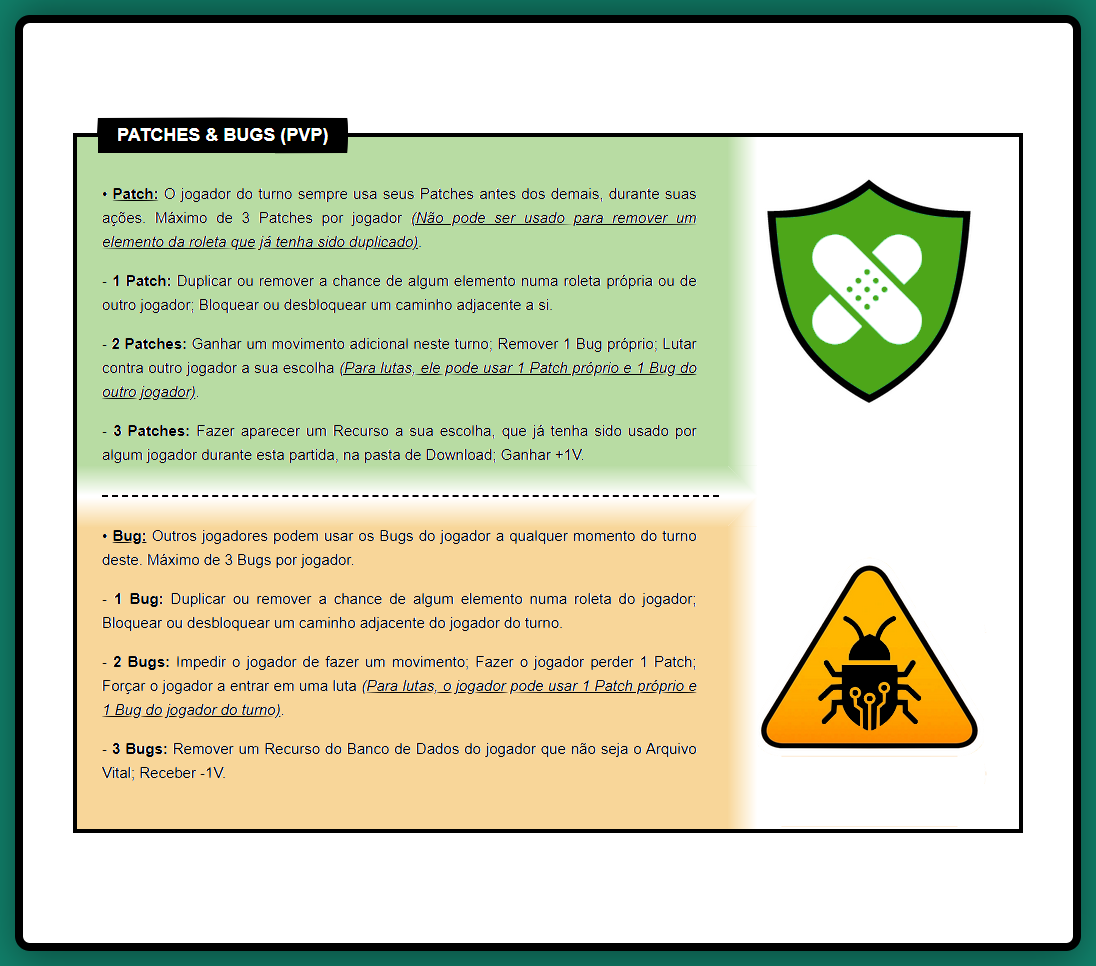
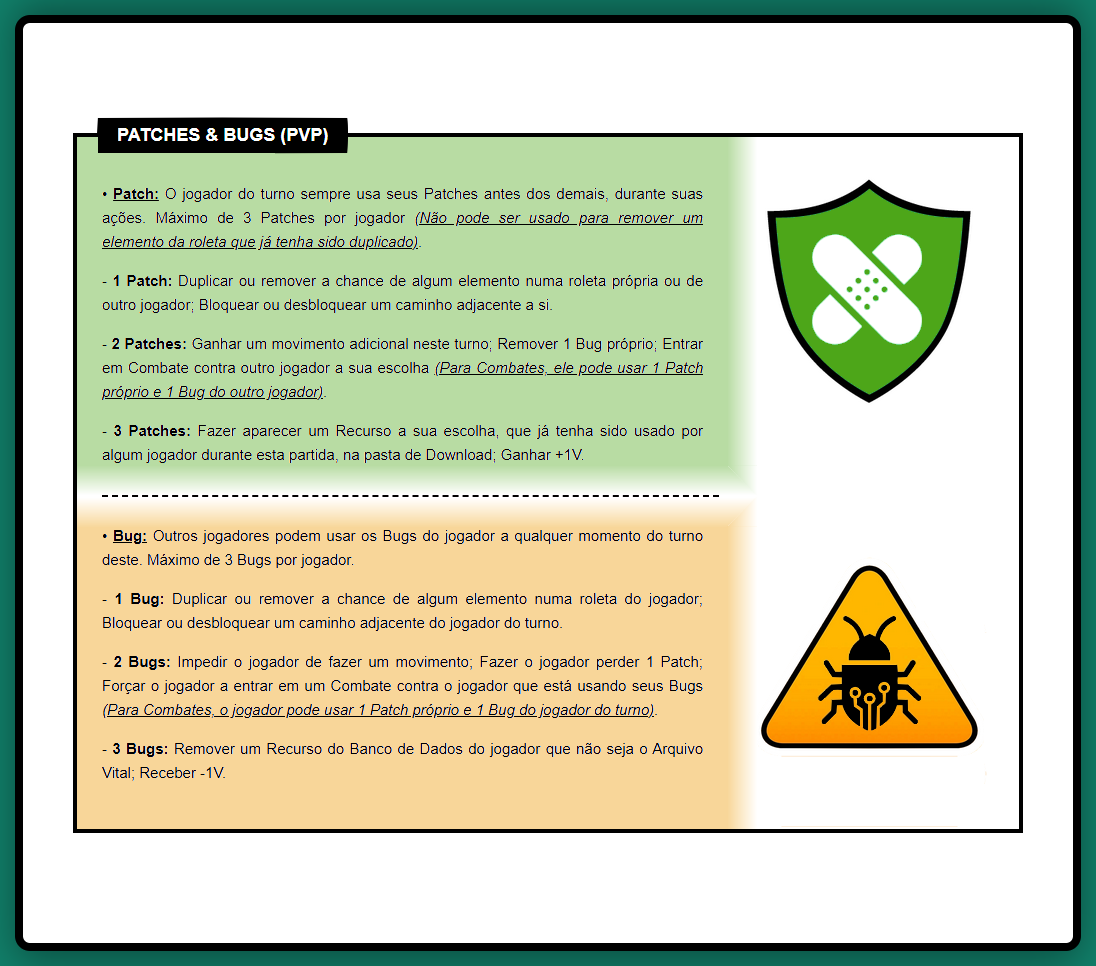
Add files via upload

diff --git a/Regras - Datamining.html b/Regras - Datamining.html
@@ -197,23 +197,23 @@
                 <div class="regra-com-imagem">
                     <div class="texto-regra">
                         <p>• <b>Objetivo:</b> Proteger o <strong>Arquivo Vital</strong>, que está na pasta de Diretório Principal, e levá-lo até sua Zona Segura. Vence o jogador que iniciar seu turno na própria pasta de Zona Segura com o Arquivo Vital no seu <strong>Banco de Dados</strong>.</p>
-						<p>• <b>Jogadores:</b> Um jogador é o <strong>Sistema Operacional (SO)</strong> sendo corrompido e os outros são <strong>Antivírus</strong> concorrentes entre si. <i><u>(Mínimo de 3 e máximo de 8 jogadores além do SO)</u></i></p>
+						<p>• <b>Jogadores:</b> Um jogador é o <strong>Sistema Operacional (SO)</strong> sendo corrompido e os outros são <strong>Antivírus</strong> concorrentes entre si. <i><u>(Mínimo de 3 e máximo de 8 jogadores Antivírus).</u></i></p>
                         <p>• <b>SO:</b> Apenas o SO vê a <strong>Tabela Mestra de Diretórios (TMD)</strong>. Ele informa as direções possíveis e a distância após a escolha do jogador sobre qual caminho seguir.</p>
-						<p>• <b>Antivírus:</b> Os jogadores Antivírus têm como ações: realizar um movimento, usar um <strong>Recurso</strong>, usar seus <strong>Patches</strong>, realizar um <strong>Combate</strong> ou rodar uma <strong>Roleta</strong>. <i><u>(Não pode repetir uma ação no mesmo turno normalmente)</u></i></p>
+						<p>• <b>Antivírus:</b> Os jogadores Antivírus têm como ações: realizar um <strong>Movimento</strong>, usar um <strong>Recurso</strong>, usar seus <strong>Patches</strong>, realizar um <strong>Combate</strong> ou rodar uma <strong>Roleta</strong>. <i><u>(Não pode repetir uma ação no mesmo turno normalmente).</u></i></p>
                     </div>
                     <img src="Regras PvP (1).png" class="imagem-regra" onclick="expandirImagem(this.src)">
                 </div>
 
                 <div class="regra-com-imagem">
                     <div class="texto-regra">
-                        <p>• <b>Setup:</b> Cada jogador escolhe sua cor e inicia o jogo com seus status <strong>1V-0A-5B</strong>. <i><u>(Versão, Atualização e Bits)</u></i></p>
+                        <p>• <b>Setup:</b> Cada jogador escolhe sua cor e inicia o jogo com seus status <strong>1V-0A-5B</strong>. <i><u>(Versão, Atualização e Bits).</u></i></p>
                     </div>
                     <img src="Regras PvP (2).png" class="imagem-regra" onclick="expandirImagem(this.src)">
                 </div>
 				
 				<div class="regra-com-imagem">
                     <div class="texto-regra">
-                        <p>• <b>Esgotamento:</b> Caso um jogador fique com ambos V e A abaixo de zero, coloque-o de volta na sua pasta de Zona Segura <i><u>(Se não tiver, vai para uma pasta de Download aleatória pelo mapa)</u></i>. Ele dá seus Recursos para os outros jogadores <i><u>(O Arquivo Vital volta para a pasta de Diretório Principal)</u></i> e recomeça com seus status iniciais.</p>
+                        <p>• <b>Esgotamento:</b> Caso um jogador fique com ambos V e A abaixo de zero, coloque-o de volta na sua pasta de Zona Segura <i><u>(Se não tiver, vai para uma pasta de Download aleatória pelo mapa)</u></i>. Ele dá seus Recursos para os outros jogadores <i><u>(O Arquivo Vital volta para a pasta do Diretório Principal)</u></i> e recomeça com seus status iniciais.</p>
 						<p>• <b>Início:</b> A ordem dos jogadores é escolhida pela roleta de Antivírus.</p>
 						<p>• <b>Exploração:</b> Com exceção das pastas de Zona Segura, do Diretório Principal, de Quarentena e de Downloads, encontrar uma pasta nunca explorada concede ao jogador uma <strong>Criptomoeda</strong>, que dá +1A ou +1B pro jogador a sua escolha.</p>
                     </div>
@@ -222,7 +222,7 @@
 				
 				<div class="regra-com-imagem">
                     <div class="texto-regra">
-                        <p>• <b>Datamine:</b> Com exceção das pastas de Zona Segura, do Diretório Principal, de Quarentena e de Downloads, existe uma Datamine escondida no mapa que, ao ser encontrada, revela para o jogador a parte do mapa em que ele está. Depois disso, ela é colocada escondida em outro lugar do mapa.</p>
+                        <p>• <b>Datamine:</b> Com exceção das pastas de Zona Segura, do Diretório Principal, de Quarentena e de Downloads, existe uma Datamine escondida no mapa que, ao ser encontrada, revela para o jogador um Pedaço do Mapa em que ele está. Depois disso, ela é colocada escondida em outro lugar do mapa.</p>
                     </div>
                     <img src="Regras PvP (4).png" class="imagem-regra" onclick="expandirImagem(this.src)">
                 </div>
@@ -239,7 +239,7 @@
                     <div class="texto-regra">
 						<p>• <b>Patch:</b> O jogador do turno sempre usa seus Patches antes dos demais, durante suas ações. Máximo de 3 Patches por jogador <i><u>(Não pode ser usado para remover um elemento da roleta que já tenha sido duplicado)</u></i>.</p>
 							<p>- <strong>1 Patch:</strong> Duplicar ou remover a chance de algum elemento numa roleta própria ou de outro jogador; Bloquear ou desbloquear um caminho adjacente a si.</p>
-							<p>- <strong>2 Patches:</strong> Ganhar um movimento adicional neste turno; Remover 1 Bug próprio; Lutar contra outro jogador a sua escolha <i><u>(Para lutas, ele pode usar 1 Patch próprio e 1 Bug do outro jogador)</u></i>.</p>
+							<p>- <strong>2 Patches:</strong> Ganhar um movimento adicional neste turno; Remover 1 Bug próprio; Entrar em Combate contra outro jogador a sua escolha <i><u>(Para Combates, ele pode usar 1 Patch próprio e 1 Bug do outro jogador)</u></i>.</p>
 							<p>- <strong>3 Patches:</strong> Fazer aparecer um Recurso a sua escolha, que já tenha sido usado por algum jogador durante esta partida, na pasta de Download; Ganhar +1V.</p>
 						<div class="separador"></div>
                     </div>
@@ -250,7 +250,7 @@
                     <div class="texto-regra">
 						<p>• <b>Bug:</b> Outros jogadores podem usar os Bugs do jogador a qualquer momento do turno deste. Máximo de 3 Bugs por jogador.</p>
 							<p>- <strong>1 Bug:</strong> Duplicar ou remover a chance de algum elemento numa roleta do jogador; Bloquear ou desbloquear um caminho adjacente do jogador do turno.</p>
-							<p>- <strong>2 Bugs:</strong> Impedir o jogador de fazer um movimento; Fazer o jogador perder 1 Patch; Forçar o jogador a entrar em uma luta <i><u>(Para lutas, o jogador pode usar 1 Patch próprio e 1 Bug do jogador do turno)</u></i>.</p>
+							<p>- <strong>2 Bugs:</strong> Impedir o jogador de fazer um movimento; Fazer o jogador perder 1 Patch; Forçar o jogador a entrar em um Combate contra o jogador que está usando seus Bugs <i><u>(Para Combates, o jogador pode usar 1 Patch próprio e 1 Bug do jogador do turno)</u></i>.</p>
 							<p>- <strong>3 Bugs:</strong> Remover um Recurso do Banco de Dados do jogador que não seja o Arquivo Vital; Receber -1V.</p>
 						<div class="separador"></div>
                     </div>
@@ -268,7 +268,7 @@
                 <div class="texto-regra">
                     <p>• <b>Diretório Principal:</b> É disfarçada de uma Pasta Vazia e é tratada como tal até o jogador encontrar todas as Chaves de Acesso e estiver com o V necessário ou acima para acessá-la.</p>
 					<p>• <b>Arquivo Vital:</b> Enquanto estiver fora do Diretório Principal, qualquer jogador pode ter o Arquivo Vital em seu Banco de Dados, independentemente de ter todas as Chaves de Acesso ou de estar no V necessário.</p>
-					<p>• <b>Empate:</b> No caso de empate em alguma luta ou indecisão do resultado de alguma roleta ou escolha, quem desempata são os jogadores externos à ação. Caso haja mais de um jogador externo, esta escolha deverá ser feita de forma unânime. Caso os jogadores externos não entrem num consenso sobre o que fazer por muito tempo, o SO pode, a qualquer momento, interromper a decisão e rodar a roleta de Quarentena para todos os jogadores <i><u>(internos ou externos à ação)</u></i>.</p>
+					<p>• <b>Empate:</b> No caso de empate em algum Combate ou indecisão do resultado de alguma Roleta ou escolha, quem desempata são os jogadores externos à ação. Caso haja mais de um jogador externo, esta escolha deverá ser feita de forma unânime. Caso os jogadores externos não entrem num consenso sobre o que fazer por muito tempo, o SO pode, a qualquer momento, interromper a decisão e rodar a roleta de Quarentena para todos os jogadores <i><u>(sejam participantes ou externos à ação)</u></i>.</p>
                 </div>
             </div>
 
@@ -282,7 +282,7 @@
 						<li>O mapa é completo, não tendo espaços vazios entre as pastas no mapa.</li>
 						<li>Sem caminhos bloqueados no início do jogo.</li>
 						<li>O SO informará a distância que deslocará, após o jogador escolher um caminho, e quais caminhos poderão ser seguidos da pasta que o jogador está.</li>
-						<li>Zonas Seguras estão sempre nos mesmos locais do mapa e cada jogador saberá onde ele mesmo inicia o jogo, mas não sabe onde iniciam os outros jogadores.</li>
+						<li>No início do jogo, os jogadores são informados sobre onde estão todas as pastas de Zonas Seguras do mapa. Cada jogador recebe secretamente as coordenadas de onde ele mesmo inicia o jogo, mas não sabe onde se iniciam os outros jogadores.</li>
 						<li>Ao invés de escolher entre receber +A ou +B, seja por vitórias ou encontrar criptomoedas, os jogadores recebem ambos.</li>
 						<li>Não há limite de uso de Recursos por turno.</li>
 						<li>Sem pasta de Quarentena pelo mapa.</li>
@@ -299,10 +299,10 @@
 						<li>A pasta de Diretório Principal só pode ser acessada por jogadores no 3V.</li>
 						<li>Sem caminhos bloqueados no início do jogo.</li>
 						<li>O SO informará a distância que deslocará, após o jogador escolher um caminho, e quais caminhos poderão ser seguidos da pasta que o jogador está.</li>
-						<li>Zonas Seguras estão sempre nos mesmos locais do mapa e cada jogador saberá onde ele mesmo inicia o jogo, mas não sabe onde iniciam os outros jogadores.</li>
+						<li>No início do jogo, os jogadores são informados sobre onde estão todas as pastas de Zonas Seguras do mapa. Cada jogador recebe secretamente as coordenadas de onde ele mesmo inicia o jogo, mas não sabe onde se iniciam os outros jogadores.</li>
 						<li>Ao invés de escolher entre receber +A ou +B, seja por vitórias ou encontrar criptomoedas, os jogadores recebem ambos.</li>
 						<li>Limite de uso de 2 Recursos por jogador a cada turno.</li>
-						<li>Sem pasta de Quarentena pelo mapa.</li>
+						<li>Há no mínimo 0 e no máximo 1 pasta de Quarentena pelo mapa.</li>
 						<li>Recursos à venda na pasta de Downloads custam -1B que seus preços normais <i><u>(Mínimo de 1B)</u></i>.</li>
 					</div>
 					<img src="Regras PvP (10).png" class="imagem-regra" onclick="expandirImagem(this.src)">
@@ -316,9 +316,9 @@
 						<li>A pasta de Diretório Principal só pode ser acessada por jogadores no 5V.</li>
 						<li>Alguns caminhos podem começar o jogo já bloqueados.</li>
 						<li>O SO informará a distância que deslocará, após o jogador escolher um caminho, e quais caminhos poderão ser seguidos da pasta que o jogador está.</li>
-						<li>Zonas Seguras estão sempre nos mesmos locais do mapa e cada jogador saberá onde ele mesmo inicia o jogo, mas não sabe onde iniciam os outros jogadores.</li>
+						<li>No início do jogo, os jogadores são informados sobre onde estão todas as pastas de Zonas Seguras do mapa. Cada jogador recebe secretamente as coordenadas de onde ele mesmo inicia o jogo, mas não sabe onde se iniciam os outros jogadores.</li>
 						<li>Limite de uso de 1 Recurso por jogador a cada turno.</li>
-						<li>Há 1 pasta de Quarentena pelo mapa.</li>
+						<li>Há no mínimo 1 e no máximo 3 pastas de Quarentena pelo mapa.</li>
 						<li>Recursos à venda na pasta de Downloads custam os seus preços normais.</li>
 					</div>
 					<img src="Regras PvP (11).png" class="imagem-regra" onclick="expandirImagem(this.src)">
@@ -332,9 +332,9 @@
 						<li>A pasta de Diretório Principal só pode ser acessada por jogadores no 7V.</li>
 						<li>Mais caminhos podem começar o jogo já bloqueados.</li>
 						<li>O SO não informará a distância que deslocará, após o jogador escolher um caminho, nem quais caminhos poderão ser seguidos da pasta que o jogador está <i><u>(O jogador informará uma direção e o SO dirá se o jogador se moveu ou falará para o jogador escolher outra)</u></i>.</li>
-						<li>Zonas Seguras, apesar de estarem sempre nos mesmos locais do mapa, não são informadas aos seus respectivos jogadores onde iniciam o jogo.</li>
+						<li>No início do jogo, cada jogador recebe secretamente as coordenadas de onde ele mesmo inicia o jogo, mas não sabe onde se iniciam os outros jogadores. Os jogadores não são informados sobre onde estão as demais pastas de Zonas Seguras do mapa.</li>
 						<li>Limite de uso de 1 Recurso por jogador a cada turno.</li>
-						<li>Há 2 pastas de Quarentena pelo mapa e o jogador fica 1 turno preso nelas.</li>
+						<li>Há no mínimo 2 e no máximo 4 pastas de Quarentena pelo mapa e o jogador fica 1 turno preso nelas.</li>
 						<li>Recursos à venda na pasta de Downloads custam +1B que seus preços normais.</li>
 					</div>
 					<img src="Regras PvP (12).png" class="imagem-regra" onclick="expandirImagem(this.src)">
@@ -348,12 +348,12 @@
 						<li>A pasta de Diretório Principal só pode ser acessada por jogadores no 10V.</li>
 						<li>Muitos caminhos podem começar o jogo já bloqueados.</li>
 						<li>O SO não informará a distância que deslocará, após o jogador escolher um caminho, nem quais caminhos poderão ser seguidos da pasta que o jogador está <i><u>(O jogador informará uma direção e o SO dirá se o jogador se moveu ou falará para o jogador escolher outra)</u></i>.</li>
-						<li>Zonas Seguras não são informadas aos seus respectivos jogadores onde iniciam o jogo. Além disso, elas não têm localização fixa, podendo estar em qualquer lugar do mapa.</li>
+						<li>Os jogadores não são informados sobre onde estão nenhuma das pastas de Zonas Seguras do mapa, nem mesmo as suas próprias.</li>
 						<li>Caminhos diagonais não são necessariamente em 45º.</li>
 						<li>Limite de uso de 1 Recurso por jogador a cada rodada.</li>
 						<li>Todas as perdas de A ou B são duplicadas.</li>
 						<li>Apenas 3 Recursos são vendidos na pasta de Download no máximo normalmente <i><u>(3 Comuns no primeiro patamar; 2 Comuns e 1 Incomum no segundo patamar; e 1 Comum, 1 Incomum e 1 Raro no terceiro patamar)</u></i>.</li>
-						<li>Há 4 pastas de Quarentena pelo mapa e o jogador fica 2 turnos preso nelas.</li>
+						<li>Há no mínimo 4 pastas de Quarentena pelo mapa e o jogador fica 1 turno preso nelas.</li>
 						<li>Recursos à venda na pasta de Downloads custam +3B que seus preços normais.</li>
 					</div>
 					<img src="Regras PvP (13).png" class="imagem-regra" onclick="expandirImagem(this.src)">
@@ -367,9 +367,9 @@
                 <div class="regra-com-imagem">
                     <div class="texto-regra">
                         <p>• <b>Objetivo:</b> Proteger o <strong>Arquivo Vital</strong>, que está na pasta de Diretório Principal, e levá-lo até sua Zona Segura. O grupo vence se todos iniciarem a rodada na Zona Segura com o Arquivo Vital em seu <strong>Banco de Dados</strong>.</p>
-						<p>• <b>Jogadores:</b> Um jogador é o <strong>Sistema Operacional (SO)</strong> sendo corrompido e os outros são um programa de <strong>Antivírus</strong> trabalhando juntos para resgatar o SO. (Mínimo de 3 e máximo de 8 jogadores além do SO)</p>
+						<p>• <b>Jogadores:</b> Um jogador é o <strong>Sistema Operacional (SO)</strong> sendo corrompido e os outros são um programa de <strong>Antivírus</strong> trabalhando juntos para resgatar o SO <i><u>(Mínimo de 3 e máximo de 8 jogadores Antivírus)</u></i>.</p>
 						<p>• <b>SO:</b> Apenas o SO vê a <strong>Tabela Mestra de Diretórios (TMD)</strong>. Ele informa as direções possíveis e a distância após a escolha do jogador sobre qual caminho seguir.</p>
-						<p>• <b>Antivírus:</b> Os jogadores Antivírus têm como ações: realizar um movimento, usar um <strong>Recurso</strong>, usar seus <strong>Patches</strong>, realizar um <strong>Jogo Cooperativo</strong> ou rodar uma <strong>Roleta</strong>. (Não pode repetir uma ação no mesmo turno normalmente)</p>
+						<p>• <b>Antivírus:</b> Os jogadores Antivírus têm como ações: realizar um <strong>Movimento</strong>, usar um <strong>Recurso</strong>, usar seus <strong>Patches</strong>, realizar um <strong>Jogo Cooperativo</strong> ou rodar uma <strong>Roleta</strong> <i><u>(Não pode repetir uma ação no mesmo turno normalmente)</u></i>.</p>
                     </div>
                     <img src="Regras Coop (1).png" class="imagem-regra" onclick="expandirImagem(this.src)">
                 </div>
@@ -386,21 +386,21 @@
                         <p>• <b>Turnos:</b> O jogo terá 120 turnos inicialmente.</p>
 						<p>• <b>Esgotamento:</b> Caso o grupo fique com ambos V e A abaixo de zero ou o número de turnos chegue a 0, o jogo acaba.</p>
 						<p>• <b>Exploração:</b> Com exceção das pastas de Zona Segura, do Diretório Principal, de Quarentena e de Downloads, encontrar uma pasta nunca explorada concede ao jogador uma <strong>Criptomoeda</strong>, que dá +1A ou +1B para o grupo a escolha do jogador que a encontrou.</p>
-						<p>• <b>Rodadas:</b> Durante uma rodada, cada jogador do grupo pode ter seu turno em qualquer ordem, mas cada jogador deve ter um turno por rodada. Ao final de cada rodada, é rolada a roleta de Arquivo Desconhecido.</p>
+						<p>• <b>Rodadas:</b> Durante uma rodada, cada jogador do grupo pode ter seu turno em qualquer ordem, mas cada jogador deve ter um turno por rodada. Ao final de cada rodada, é rolada a Roleta de Arquivo Desconhecido.</p>
                     </div>
                     <img src="Regras Coop (3).png" class="imagem-regra" onclick="expandirImagem(this.src)">
                 </div>
 				
 				<div class="regra-com-imagem">
                     <div class="texto-regra">
-                        <p>• <b>Datamine:</b> Com exceção das pastas de Zona Segura, do Diretório Principal, de Quarentena e de Downloads, existe uma Datamine escondida no mapa que, ao ser encontrada, revela para o grupo a parte do mapa em que o jogador que a encontrou está. Depois disso, ela é colocada escondida em outro lugar do mapa.</p>
+                        <p>• <b>Datamine:</b> Com exceção das pastas de Zona Segura, do Diretório Principal, de Quarentena e de Downloads, existe uma Datamine escondida no mapa que, ao ser encontrada, revela para o grupo o Pedaço do Mapa em que o jogador que a encontrou está. Depois disso, ela é colocada escondida em outro lugar do mapa.</p>
                     </div>
                     <img src="Regras Coop (4).png" class="imagem-regra" onclick="expandirImagem(this.src)">
                 </div>
 				
 				<div class="regra-com-imagem">
                     <div class="texto-regra">
-                        <p>• <b>Progressão:</b> A cada 10A, o jogador recebe +1V e um Patch e fica com 0A. Se seu A cair abaixo de 0, recebe -1V, um Bug, volta a 9A e perde 1 da contagem total de turnos.</p>
+                        <p>• <b>Progressão:</b> A cada 10A, o jogador recebe +1V e um Patch e fica com 0A. Se seu A cair abaixo de 0, recebe -1V, um Bug, volta a 9A e perde 1 da contagem total de turnos para cada jogador Antivírus.</p>
 						<div class="separador"></div>
                     </div>
                     <img src="Regras Coop (5).png" class="imagem-regra" onclick="expandirImagem(this.src)">
@@ -409,9 +409,9 @@
 				<div class="regra-com-imagem">
                     <div class="texto-regra">
                         <p>• <b>Patch:</b> Máximo de 3 Patches para o grupo <i><u>(Não pode ser usado para remover um elemento da roleta que já tenha sido duplicado)</u></i>.</p>
-							<p>- <strong>1 Patch:</strong> Duplicar ou remover a chance de algum elemento numa roleta; Bloquear ou desbloquear um caminho adjacente.</p>
-							<p>- <strong>2 Patches:</strong> Ganhar um movimento adicional neste turno; Remover 1 Bug; Ganhar 3 turnos.</p>
-							<p>- <strong>3 Patches:</strong> Fazer aparecer um Recurso a sua escolha, que já tenha sido usado por algum jogador durante esta partida, na pasta de Download; Ganhar +1V.</p>
+							<p>- <strong>1 Patch:</strong> Duplicar ou remover a chance de algum elemento numa roleta; Bloquear ou desbloquear um caminho adjacente; Ganhar 1 turno.</p>
+							<p>- <strong>2 Patches:</strong> Até 3 jogadores ganham um movimento adicional cada nesta rodada; Remover 1 Bug; Ganhar 3 turnos.</p>
+							<p>- <strong>3 Patches:</strong> Fazer aparecer um Recurso a sua escolha, que já tenha sido usado por algum jogador durante esta partida, na pasta de Download; Ganhar +1V; Ganhar 5 turnos.</p>
 						<div class="separador"></div>
                     </div>
                     <img src="Regras Coop (6).png" class="imagem-regra" onclick="expandirImagem(this.src)">
@@ -431,14 +431,14 @@
 				<div class="regra-com-imagem">
                     <div class="texto-regra">
                         <p>• <b>Recursos:</b> O Banco de Dados do grupo leva até 6 Recursos diferentes. Limite de 1 uso de Recurso por turno.</p>
-						<p>• <b>Jogo Cooperativo:</b> Quando dois ou mais jogadores terminam a rodada na mesma pasta, é iniciado um jogo Cooperativo apenas entre eles. Caso vençam, recebem +3A ou +3B, a escolha do grupo, e uma Datamine Portátil. Caso percam, recebem um Bug e -2B ou -2A, escolhido pelo SO. Estes mesmos jogadores não podem ter outro jogo Cooperativo exclusivamente entre si até que já tenha acontecido outro jogo entre qualquer outra combinação de jogadores ou com o grupo inteiro.</p>
+						<p>• <b>Jogo Cooperativo:</b> Quando dois ou mais jogadores terminam a rodada na mesma pasta, é iniciado um jogo Cooperativo apenas entre eles. Caso vençam, recebem +3A ou +3B, a escolha do grupo, e uma Datamine Portátil. Caso percam, recebem -2B ou -2A, escolhido pelo SO, e um Bug. Estes mesmos jogadores não podem ter outro jogo Cooperativo exclusivamente entre si até que já tenha acontecido outro jogo entre qualquer outra combinação de jogadores ou com o grupo inteiro.</p>
                     </div>
                     <img src="Regras Coop (8).png" class="imagem-regra" onclick="expandirImagem(this.src)">
                 </div>
 
                 <div class="texto-regra">
                     <p>• <b>Diretório Principal:</b> É disfarçada de uma Pasta Vazia e é tratada como tal até o grupo encontrar todas as Chaves de Acesso e estiver com o V necessário ou acima para acessá-la.</p>
-					<p>• <b>Empate:</b> No caso de demora ou indecisão do resultado de alguma roleta ou escolha, o SO pode, a qualquer momento, interromper a decisão e rodar a roleta de Quarentena para o grupo.</p>
+					<p>• <b>Empate:</b> No caso de demora ou indecisão do resultado de alguma roleta ou escolha, o SO pode decidir encerrar a decisão e rodar a roleta de Quarentena para o grupo.</p>
                 </div>
             </div>
 
@@ -453,10 +453,10 @@
 						<li>Sem caminhos bloqueados no início do jogo.</li>
 						<li>Limite de uso de 1 Recurso do grupo por turno.</li>
 						<li>O SO informará a distância que deslocará, após o jogador escolher um caminho, e quais caminhos poderão ser seguidos da pasta que o jogador está.</li>
-						<li>Zonas Seguras estão sempre nos mesmos locais do mapa e são informadas aos seus respectivos jogadores onde iniciam o jogo.</li>
+						<li>No início do jogo, o grupo é informado sobre onde estão todas as pastas de Zonas Seguras do mapa e recebe as coordenadas de onde cada jogador inicia o jogo.</li>
 						<li>Ao invés de escolher entre ganhar +A ou +B, seja por vitórias ou encontrar criptomoedas, o grupo recebe ambos.</li>
 						<li>Ao final de cada rodada, a roleta de Arquivo Desconhecido é rolada.</li>
-						<li>Há 1 pasta de Quarentena pelo mapa.</li>
+						<li>Há no mínimo 1 e no máximo 3 pastas de Quarentena pelo mapa.</li>
 						<li>Adquirir uma nova Zona Segura custa 6B.</li>
 						<li>Recursos à venda na pasta de Downloads custam -2B que seus preços normais (Mínimo de 1B).</li>
 					</div>
@@ -472,9 +472,9 @@
 						<li>Alguns caminhos podem começar o jogo já bloqueados.</li>
 						<li>Limite de uso de 1 Recurso do grupo por turno.</li>
 						<li>O SO informará a distância que deslocará, após o jogador escolher um caminho, e quais caminhos poderão ser seguidos da pasta que o jogador está.</li>
-						<li>Zonas Seguras estão sempre nos mesmos locais do mapa e são informadas aos seus respectivos jogadores onde iniciam o jogo.</li>
+						<li>No início do jogo, o grupo recebe as coordenadas de onde cada jogador inicia o jogo, porém não é informado sobre onde estão as demais pastas de Zonas Seguras do mapa.</li>
 						<li>Ao final de cada rodada, a roleta de Arquivo Desconhecido é rolada.</li>
-						<li>Há 2 pastas de Quarentena pelo mapa e o jogador fica 1 turno preso nelas.</li>
+						<li>Há no mínimo 2 e no máximo 5 pastas de Quarentena pelo mapa e o jogador fica 1 turno preso nelas.</li>
 						<li>Adquirir uma nova Zona Segura custa 8B.</li>
 						<li>Recursos à venda na pasta de Downloads custam seus preços normais.</li>
 					</div>
@@ -491,10 +491,10 @@
 						<li>Todas as perdas de A ou B são duplicadas.</li>
 						<li>Limite de uso de 1 Recurso do grupo por rodada.</li>
 						<li>O SO não informará a distância que deslocará, após o jogador escolher um caminho, nem quais caminhos poderão ser seguidos da pasta que o jogador está.</li>
-						<li>Zonas Seguras, apesar de estarem sempre nos mesmos locais do mapa, não serão informadas aos seus respectivos jogadores onde iniciam o jogo.</li>
+						<li>O grupo não é informado sobre onde estão as pastas de Zonas Seguras do mapa, nem as coordenadas de onde cada jogador inicia o jogo.</li>
 						<li>Caminhos diagonais não são necessariamente em 45º.</li>
 						<li>Ao final de cada rodada, a roleta de Quarentena é rolada.</li>
-						<li>Há 4 pastas de Quarentena pelo mapa e o jogador fica 2 turnos preso nelas.</li>
+						<li>Há no mínimo 4 pastas de Quarentena pelo mapa e o jogador fica 1 turno preso nelas.</li>
 						<li>Adquirir uma nova Zona Segura custa 12B.</li>
 						<li>Recursos à venda na pasta de Downloads custam +3B que seus preços normais.</li>
 					</div>

diff --git a/Pastas - Datamining.html b/Pastas - Datamining.html
@@ -202,7 +202,7 @@
                     <div class="conteudo-dificuldade">
                         <div class="subtitulo-dif">Zona Segura</div>
 							<div class="texto-regra">
-							<p>Onde cada jogador inicia o jogo. Seus locais no mapa são sempre os mesmos <i>(Exceto no Modo Extremo)</i>, variando apenas qual é a pasta inicial de cada jogador. São informados onde estão no mapa aos seus respectivos jogadores <i>(Exceto nos Modos Difícil e Extremo)</i>. Independente de quantos jogadores tenham no jogo, sempre há 8 pastas de Zona Segura espalhadas pelo mapa, uma para cada cor de jogador. Toda vez que um jogador passar pela sua própria Zona Segura, recebe +2B. Caso jogador entre na pasta de Zona Segura de outro jogador, deve pagar 2B ao dono da pasta. Caso um jogador encontre uma pasta de Zona Segura que não pertença a nenhum jogador, ele pode pagar 5B para trocar a sua pasta de Zona Segura por esta, recebendo também uma parte do mapa com suas pastas adjacentes, do contrário, recebe +2A. Um jogador com o Arquivo Vital não pode adquirir uma nova pasta de Zona Segura, enquanto já possuir uma. Caso um jogador esteja em sua pasta de Zona Segura e outro jogador entre nela, o dono da pasta pode escolher entre lutar contra o outro jogador ou não. Caso escolha não lutar, deve dar um Recurso seu para o outro jogador e não recebe o pagamento do outro jogador por entrar em sua Zona Segura <i>(Este efeito não imuniza o jogador dentro de sua Zona Segura de entrar em luta com outros jogadores por outros métodos)</i>.</p>
+							<p>Onde cada jogador inicia o jogo. Seus locais no mapa são sempre informados a todos os jogadores <i>(Exceto nos Modos Difícil e Extremo)</i>, variando apenas qual é a pasta inicial de cada jogador, que é informada secretamente para cada um <i>(Exceto no Modo Extremo)</i>. Independente de quantos jogadores tenham no jogo, sempre há 8 pastas de Zona Segura espalhadas pelo mapa. Toda vez que um jogador passar pela sua própria Zona Segura, recebe +2B. Caso jogador entre na pasta de Zona Segura de outro jogador, deve pagar 2B ao dono da pasta. Caso um jogador encontre uma pasta de Zona Segura que não pertença a nenhum jogador, ele pode pagar 5B para trocar a sua pasta de Zona Segura por esta, recebendo também um Pedaço do Mapa de onde esta pasta está, do contrário, recebe +2A. Um jogador com o Arquivo Vital não pode adquirir uma nova pasta de Zona Segura, enquanto já possuir uma. Caso um jogador esteja em sua pasta de Zona Segura e outro jogador entre nela, o dono da pasta pode escolher entre entrar em Combate contra o outro jogador ou não. Caso escolha não entrar em Combate, deve dar um Recurso seu para o outro jogador e também não recebe o pagamento do outro jogador por entrar em sua Zona Segura <i>(Este efeito não imuniza o jogador dentro de sua Zona Segura de entrar em Combate com outros jogadores por outros métodos)</i>.</p>
 						</div>
                     </div>
                     <img src="Pasta (1).png" class="imagem-regra" onclick="expandirImagem(this.src)">
@@ -231,7 +231,7 @@
                     <div class="conteudo-dificuldade">
                         <div class="subtitulo-dif">Downloads</div>
 							<div class="texto-regra">
-							<p>Os jogadores podem usar seus Bits para comprar Recursos. Toda vez que um jogador entrar nesta pasta, são aleatorizados entre 4 a 7 Recursos que estão à venda. Recursos melhores aparecem conforme o jogador progride pelo jogo. Os Recursos à venda e seus efeitos somente aparecem para o jogador que está comprando, porém são mostrados aos outros jogadores a imagem representativa dos Recursos comprados. Máximo de 2 Recursos podem ser comprados por turno.</p>
+							<p>Os jogadores podem usar seus Bits para comprar Recursos. A cada vez que um jogador entrar nesta pasta, são aleatorizados entre 4 a 7 Recursos que estão à venda. Recursos melhores aparecem conforme o jogador progride pelo jogo. Os Recursos à venda e seus efeitos somente aparecem para o jogador que está comprando, porém são mostrados aos outros jogadores apenas o ícone dos Recursos comprados, em seu Banco de Dados. Máximo de 2 Recursos podem ser comprados por turno numa mesma pasta de Download.</p>
 						</div>
                     </div>
                     <img src="Pasta (4).png" class="imagem-regra" onclick="expandirImagem(this.src)">
@@ -261,7 +261,7 @@
                     <div class="conteudo-dificuldade">
                         <div class="subtitulo-dif">Chave de Acesso</div>
 							<div class="texto-regra">
-							<p>O jogador recebe secretamente uma pista de onde está a pasta do Diretório Principal <i>(É tratada como uma Pasta Vazia, durante o turno do jogador que a encontrou)</i>. A cada final de rodada em que algum jogador tenha encontrado pelo menos uma pasta de Chave de Acesso, o SO informa a todos quantos jogadores possuem Chaves de Acesso e quantas cada um possui, sem informar quais jogadores as têm. Encontrando todas, permite ao jogador encontrar o Diretório Principal.</p>
+							<p>O jogador recebe secretamente uma pista de onde está a pasta do Diretório Principal <i>(É tratada como uma Pasta Vazia, durante o turno do jogador que a encontrou)</i>. A cada final de rodada em que algum jogador tenha encontrado pelo menos uma pasta de Chave de Acesso, o SO informa a todos quantos jogadores possuem Chaves de Acesso e quantas cada um possui, sem informar quais jogadores as têm. Encontrando todas, permite ao jogador encontrar a pasta do Diretório Principal.</p>
 						</div>
                     </div>
                     <img src="Pasta (7).png" class="imagem-regra" onclick="expandirImagem(this.src)">
@@ -271,7 +271,7 @@
                     <div class="conteudo-dificuldade">
                         <div class="subtitulo-dif">Diretório Principal</div>
 							<div class="texto-regra">
-							<p>É disfarçada de alguma outra Pasta Vazia até o jogador encontrar todas as Chaves de Acesso e ter V necessário para acessá-la. É onde está o Arquivo Vital.</p>
+							<p>É disfarçada de alguma outra Pasta Vazia até o jogador encontrar todas as Chaves de Acesso e ter V necessário para acessá-la. É onde inicialmente está o Arquivo Vital.</p>
 						</div>
                     </div>
                     <img src="Pasta (8).png" class="imagem-regra" onclick="expandirImagem(this.src)">
@@ -296,7 +296,7 @@
                     <div class="conteudo-dificuldade">
                         <div class="subtitulo-dif">Zona Segura</div>
 							<div class="texto-regra">
-							<p>Onde cada jogador inicia o jogo. Seus locais no mapa são sempre os mesmos, variando apenas qual é a pasta inicial de cada jogador. Todos os jogadores são informados onde estão as pastas de cada um no mapa <i>(Exceto no Modo Difícil)</i>. Independente de quantos jogadores tenham no jogo, sempre há 8 pastas de Zona Segura no mapa. Toda vez que um jogador passar por alguma Zona Segura pertencente ao grupo que não seja da sua mesma cor, o grupo recebe +2B. Caso um jogador encontre uma pasta de Zona Segura que não pertença ao grupo, ele pode pagar 8B para trocar a sua Zona Segura por esta, recebendo também uma parte do mapa com suas pastas adjacentes, do contrário, recebe +3A. Enquanto o grupo possuir o Arquivo Vital, todas as pastas de Zona Segura são dadas como perdidas e apenas uma delas é escolhida aleatoriamente para ser a única saída do grupo. Enquanto possuírem o Arquivo Vital, o grupo não pode adquirir uma nova pasta de Zona Segura e, caso esta seja perdida por algum efeito, apenas altera a Zona Segura para outra escolhida aleatoriamente.</p>
+							<p>Onde cada jogador inicia o jogo. Seus locais no mapa não são informados aos jogadores <i>(Exceto no Modo Fácil)</i>, mas as coordenadas das pastas iniciais de cada jogador são <i>(Exceto no Modo Difícil)</i>. Independente de quantos jogadores tenham no jogo, sempre há 8 pastas de Zona Segura no mapa. Toda vez que um jogador passar por alguma Zona Segura pertencente ao grupo que não seja da sua mesma cor, o grupo recebe +2B <i>(Se a pasta de Zona Segura e o jogador forem da mesma cor, o grupo não recebe nada)</i>. Caso um jogador encontre uma pasta de Zona Segura que não pertença ao grupo, ele pode pagar 8B para trocar a sua Zona Segura por esta, recebendo também um Pedaço do Mapa com suas pastas adjacentes, do contrário, recebe +3A. Enquanto o grupo possuir o Arquivo Vital, todas as pastas de Zona Segura são dadas como perdidas e apenas uma delas é escolhida aleatoriamente para ser a única saída do grupo. Enquanto possuírem o Arquivo Vital, o grupo não pode adquirir uma nova pasta de Zona Segura e, caso esta seja perdida por algum efeito, apenas altera a Zona Segura para outra escolhida aleatoriamente.</p>
 						</div>
                     </div>
                     <img src="Pasta (1).png" class="imagem-regra" onclick="expandirImagem(this.src)">
@@ -325,7 +325,7 @@
                     <div class="conteudo-dificuldade">
                         <div class="subtitulo-dif">Downloads</div>
 							<div class="texto-regra">
-							<p>O grupo pode usar seus Bits para comprar Recursos. Toda vez que um jogador entrar nesta pasta, são aleatorizados entre 4 a 7 Recursos que estão à venda. Recursos melhores aparecem conforme o grupo progride durante o jogo. Máximo de 2 Recursos podem ser comprados por turno.</p>
+							<p>O grupo pode usar seus Bits para comprar Recursos. A cada vez que um jogador entrar nesta pasta, são aleatorizados entre 4 a 7 Recursos que estão à venda. Recursos melhores aparecem conforme o grupo progride durante o jogo. Máximo de 2 Recursos podem ser comprados por turno.</p>
 						</div>
                     </div>
                     <img src="Pasta (4).png" class="imagem-regra" onclick="expandirImagem(this.src)">
@@ -335,7 +335,7 @@
                     <div class="conteudo-dificuldade">
                         <div class="subtitulo-dif">Jogo Cooperativo</div>
 							<div class="texto-regra">
-							<p>O grupo roda a roleta Cooperativa. Caso ganhem o jogo, recebem +3A ou +3B, a escolha do grupo, além de 1 Patch e 1 Datamine Portátil. Caso percam, recebem -3B, -3A ou se perdem um Recurso aleatoriamente, a escolha do SO, e 1 Bug.</p>
+							<p>O grupo roda a roleta Cooperativa. Caso ganhem o jogo, recebem +3A ou +3B, a escolha do grupo, além de 1 Patch e 1 Datamine Portátil. Caso percam, recebem -3B, -3A ou perdem um Recurso aleatoriamente, a escolha do SO, além de 1 Bug.</p>
 						</div>
                     </div>
                     <img src="Pasta (5)c.png" class="imagem-regra" onclick="expandirImagem(this.src)">
@@ -355,7 +355,7 @@
                     <div class="conteudo-dificuldade">
                         <div class="subtitulo-dif">Chave de Acesso</div>
 							<div class="texto-regra">
-							<p>O grupo recebe uma pista de onde está a pasta do Diretório Principal. Encontrando todas, permite ao grupo encontrar o Diretório Principal.</p>
+							<p>O grupo recebe uma pista de onde está a pasta do Diretório Principal. Encontrando todas, permite ao grupo encontrar a pasta do Diretório Principal.</p>
 						</div>
                     </div>
                     <img src="Pasta (7).png" class="imagem-regra" onclick="expandirImagem(this.src)">
@@ -365,7 +365,7 @@
                     <div class="conteudo-dificuldade">
                         <div class="subtitulo-dif">Diretório Principal</div>
 							<div class="texto-regra">
-							<p>É disfarçada de alguma outra pasta até o grupo encontrar todas as Chaves de Acesso e ter V necessário para acessá-la. Local onde está o Arquivo Vital.</p>
+							<p>É disfarçada de alguma outra pasta até o grupo encontrar todas as Chaves de Acesso e ter V necessário para acessá-la. É onde inicialmente está o Arquivo Vital.</p>
 						</div>
                     </div>
                     <img src="Pasta (8).png" class="imagem-regra" onclick="expandirImagem(this.src)">
